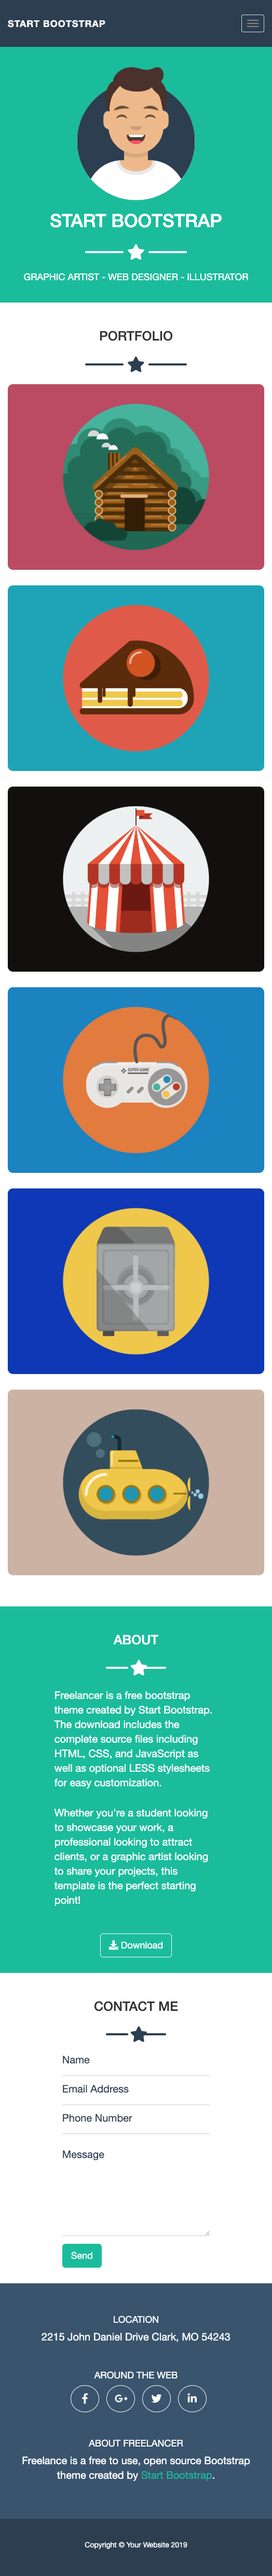
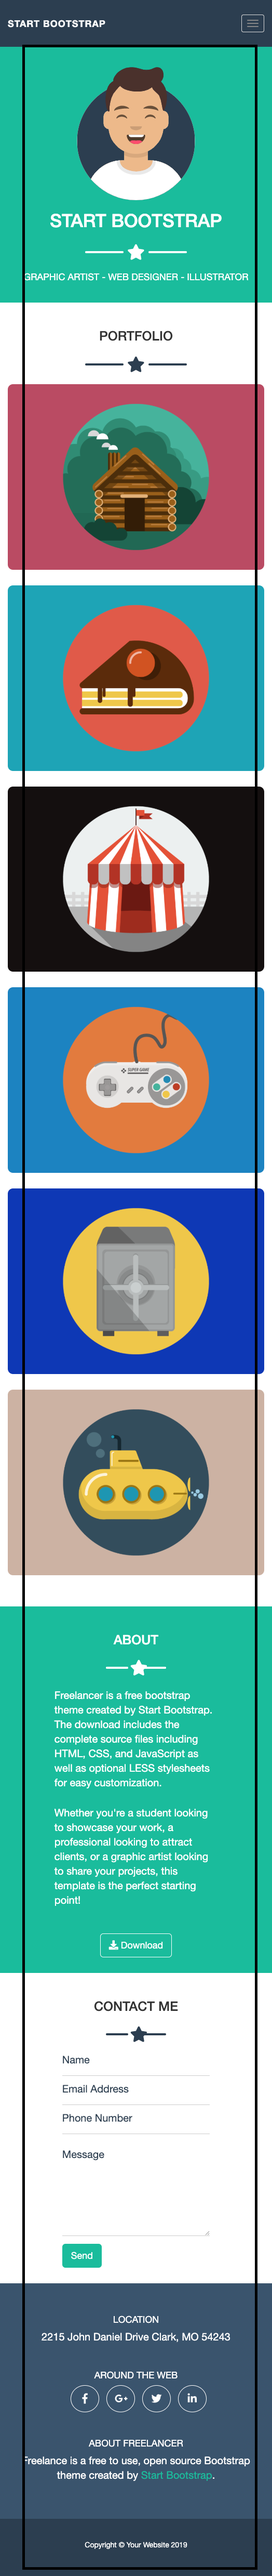
bozza1

Changed region(s): [[0.0611, 0.373, 0.9466, 1.0], [0.916, 0.0, 0.9466, 0.3108], [0.0611, 0.0, 0.0916, 0.3108]]

diff --git a/index.html b/index.html
@@ -23,9 +23,9 @@
                 <div class="container"></div>
             </section>
 
-            <section>
+            <section class="box-img">
                 <div class="container">
-                    <div class="portfolio-text">Portfolio</div>
+                    <h2 class="portfolio-text">Portfolio</h2>
                     <div class="row show-grid">
                         <div class="col-xs-12 col-sm-6 col-md-4 col-lg-4">
                             <div class="img cabin"></div>
@@ -48,6 +48,53 @@
                     </div>
                 </div>
             </section>
+
+            <section class="box-about">
+                <div class="container">
+                    <h2>ABOUT</h2>
+                    <div class="row show-grid">
+                        <div class="col-xs-12 col-sm-6 col-md-6"></div>
+                        <div class="col-xs-12 col-sm-6 col-md-6"></div>
+                    </div>
+                </div>
+            </section>
+
+            <section class="contact-me">
+                <div class="container">
+                    <h2>CONTACT ME</h2>
+                    <!-- name
+                    email address
+                    phone number
+                    message 
+                    button send-->
+                </div>
+            </section>
+
+            
+
         </main>
+
+        <div class="f-name">
+            
+            <div class="container">
+                <div class="row show-grid">
+                    <div class="col-xs-12 col-sm-4 col-md-4 col-lg-4"></div>
+                    <div class="col-xs-12 col-sm-4 col-md-4 col-lg-4"></div>
+                    <div class="col-xs-12 col-sm-4 col-md-4 col-lg-4"></div>
+                </div>
+                
+            </div>
+            
+            
+        </div>
+
+        <footer class="f-copy">
+            <div class="container">
+                <div class="row show-grid">
+                    <div class="col-xs-4 col-xs-offset-4"></div>
+                </div>
+            </div>
+        </footer>
+        
     </body>
 </html>

diff --git a/style.css b/style.css
@@ -1,12 +1,30 @@
-.box-avatar {
+.box-avatar, .box-about {
     background-color: #1abc9c;
-    padding: 150px 0;
+    padding-top: 100px;
+    padding-bottom: 100px;
+}
+.contact-me {
+    padding-top: 100px;
+    padding-bottom: 100px;
+}
+.f-name {
+    padding-top: 60px;
+    padding-bottom: 60px;
+    background-color: #3a546d;
+}
+.f-copy {
+    padding-top: 60px;
+    padding-bottom: 60px;
+    background-color:#2c3e50;
+}
+.box-img {
+    padding-bottom: 40px;
 }
 
 .show-grid [class^=col-] {
     padding-top: 30px;
     padding-bottom: 30px;
-    background-color: rgba(86,61,124,.15);
+    background-color: rgba(192, 202, 201, 0.562);
     border: 1px solid rgba(86,61,124,.2);
 }
 .portfolio-text {
